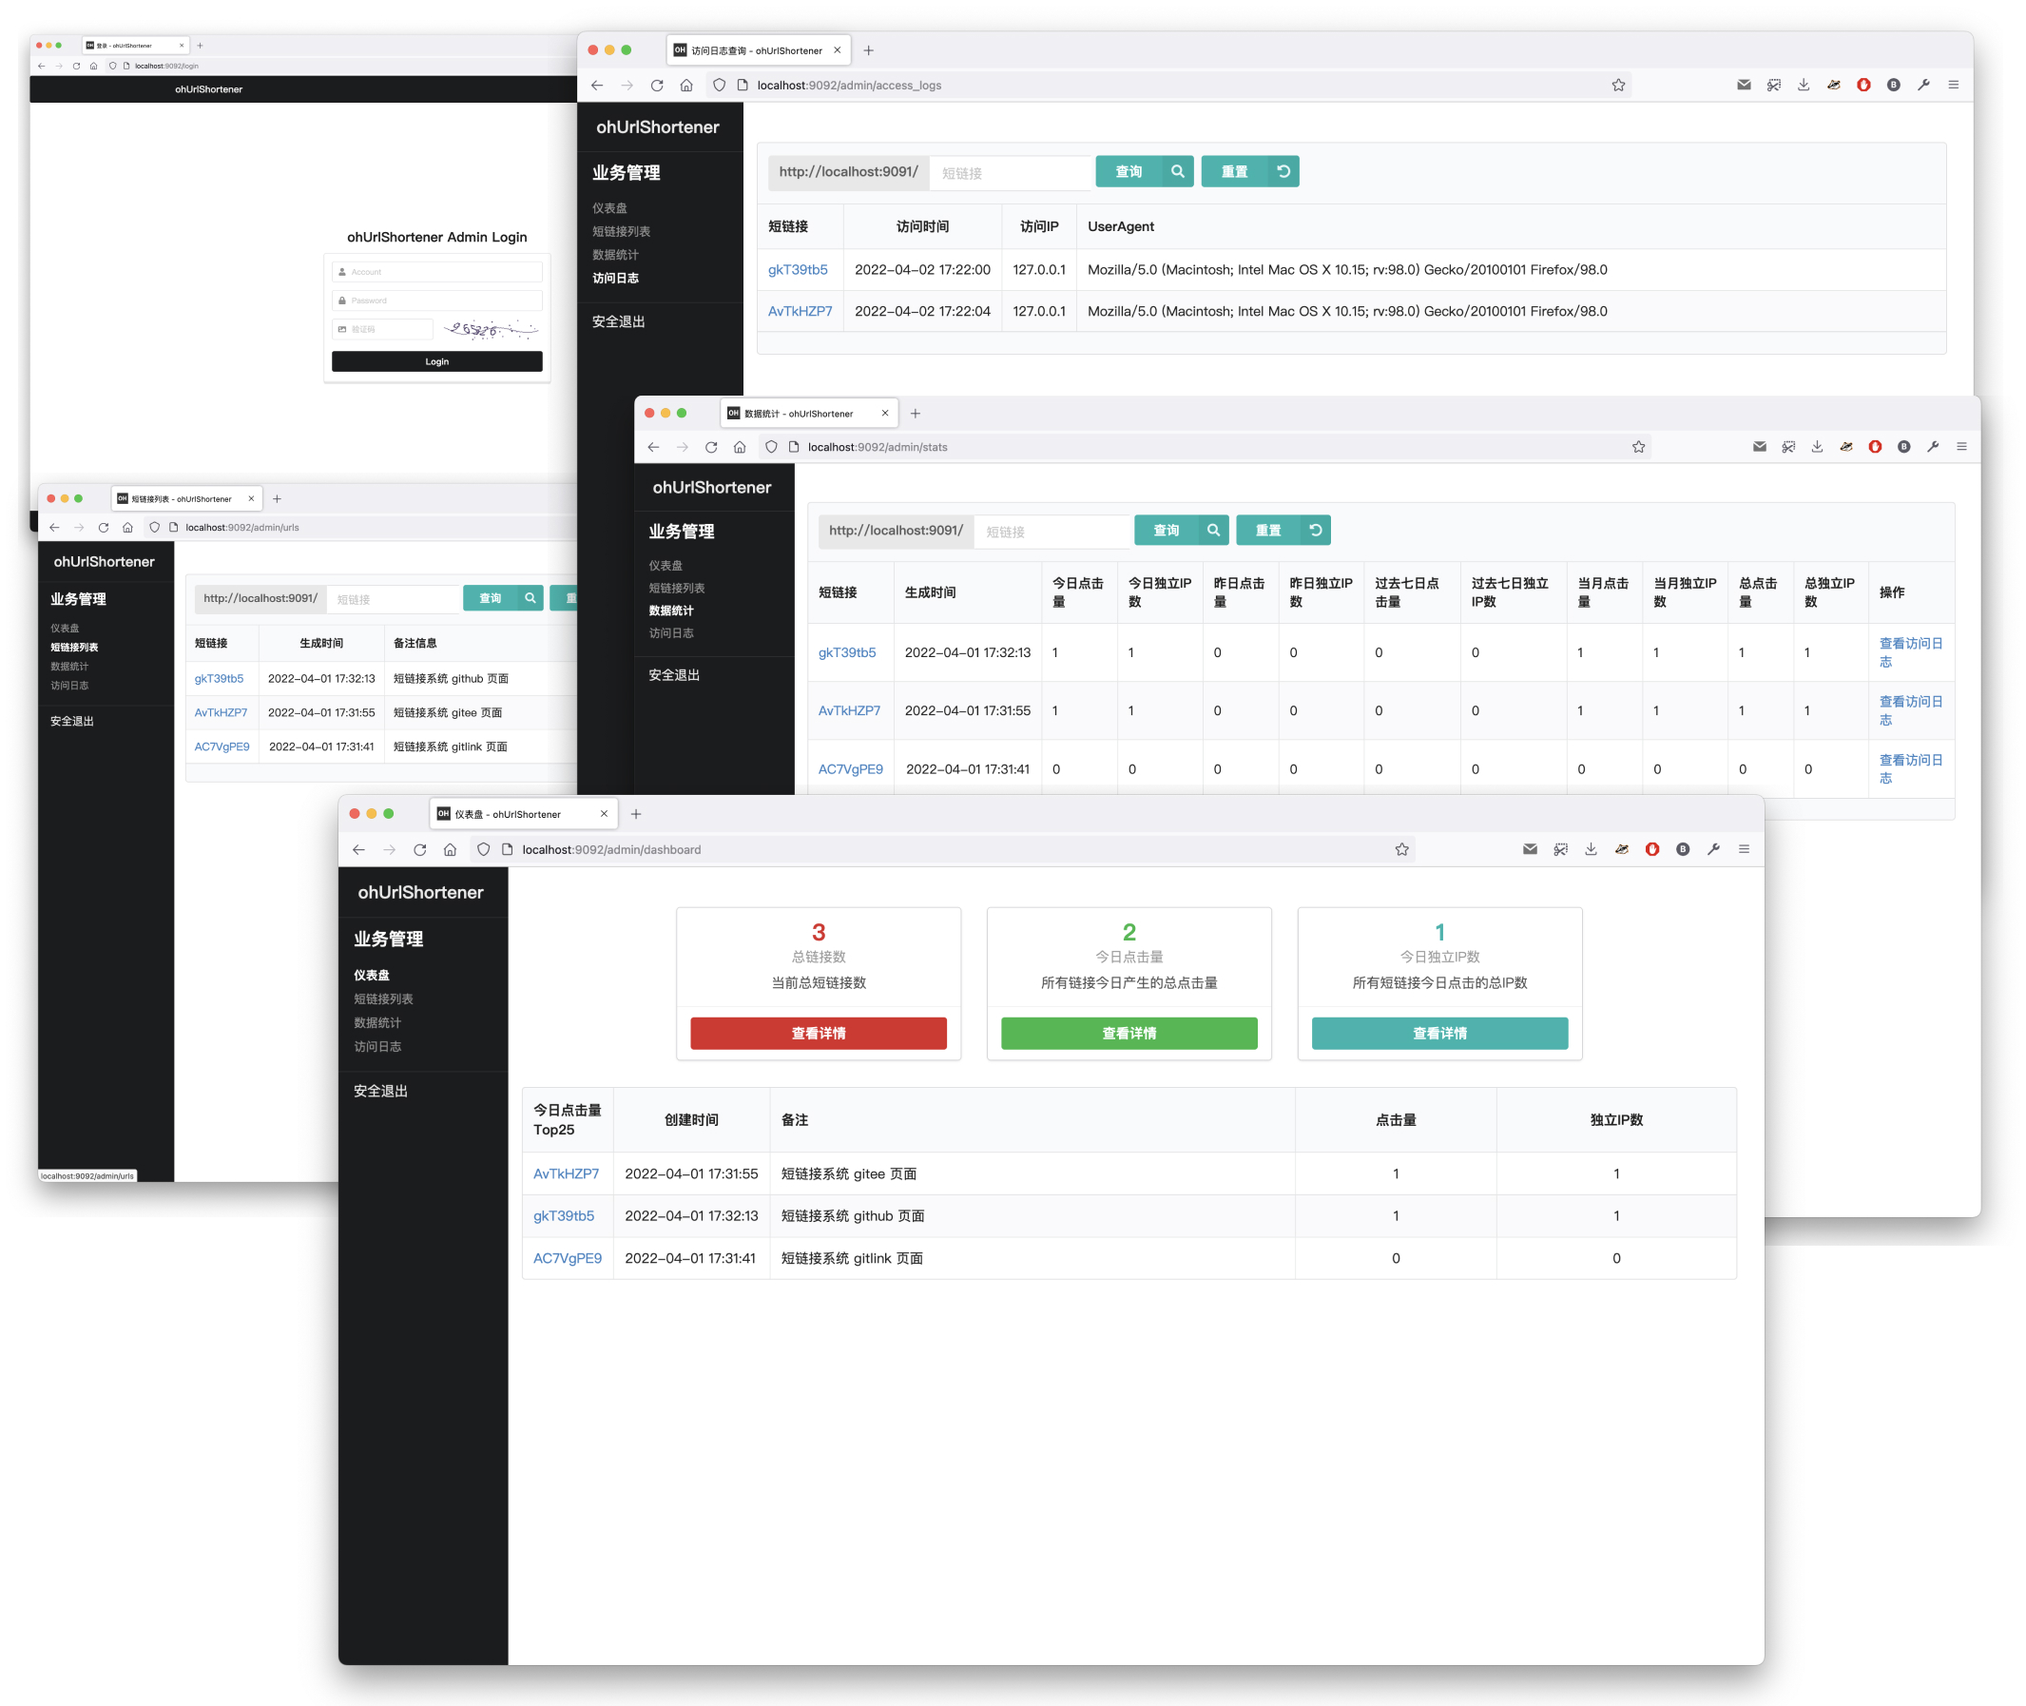
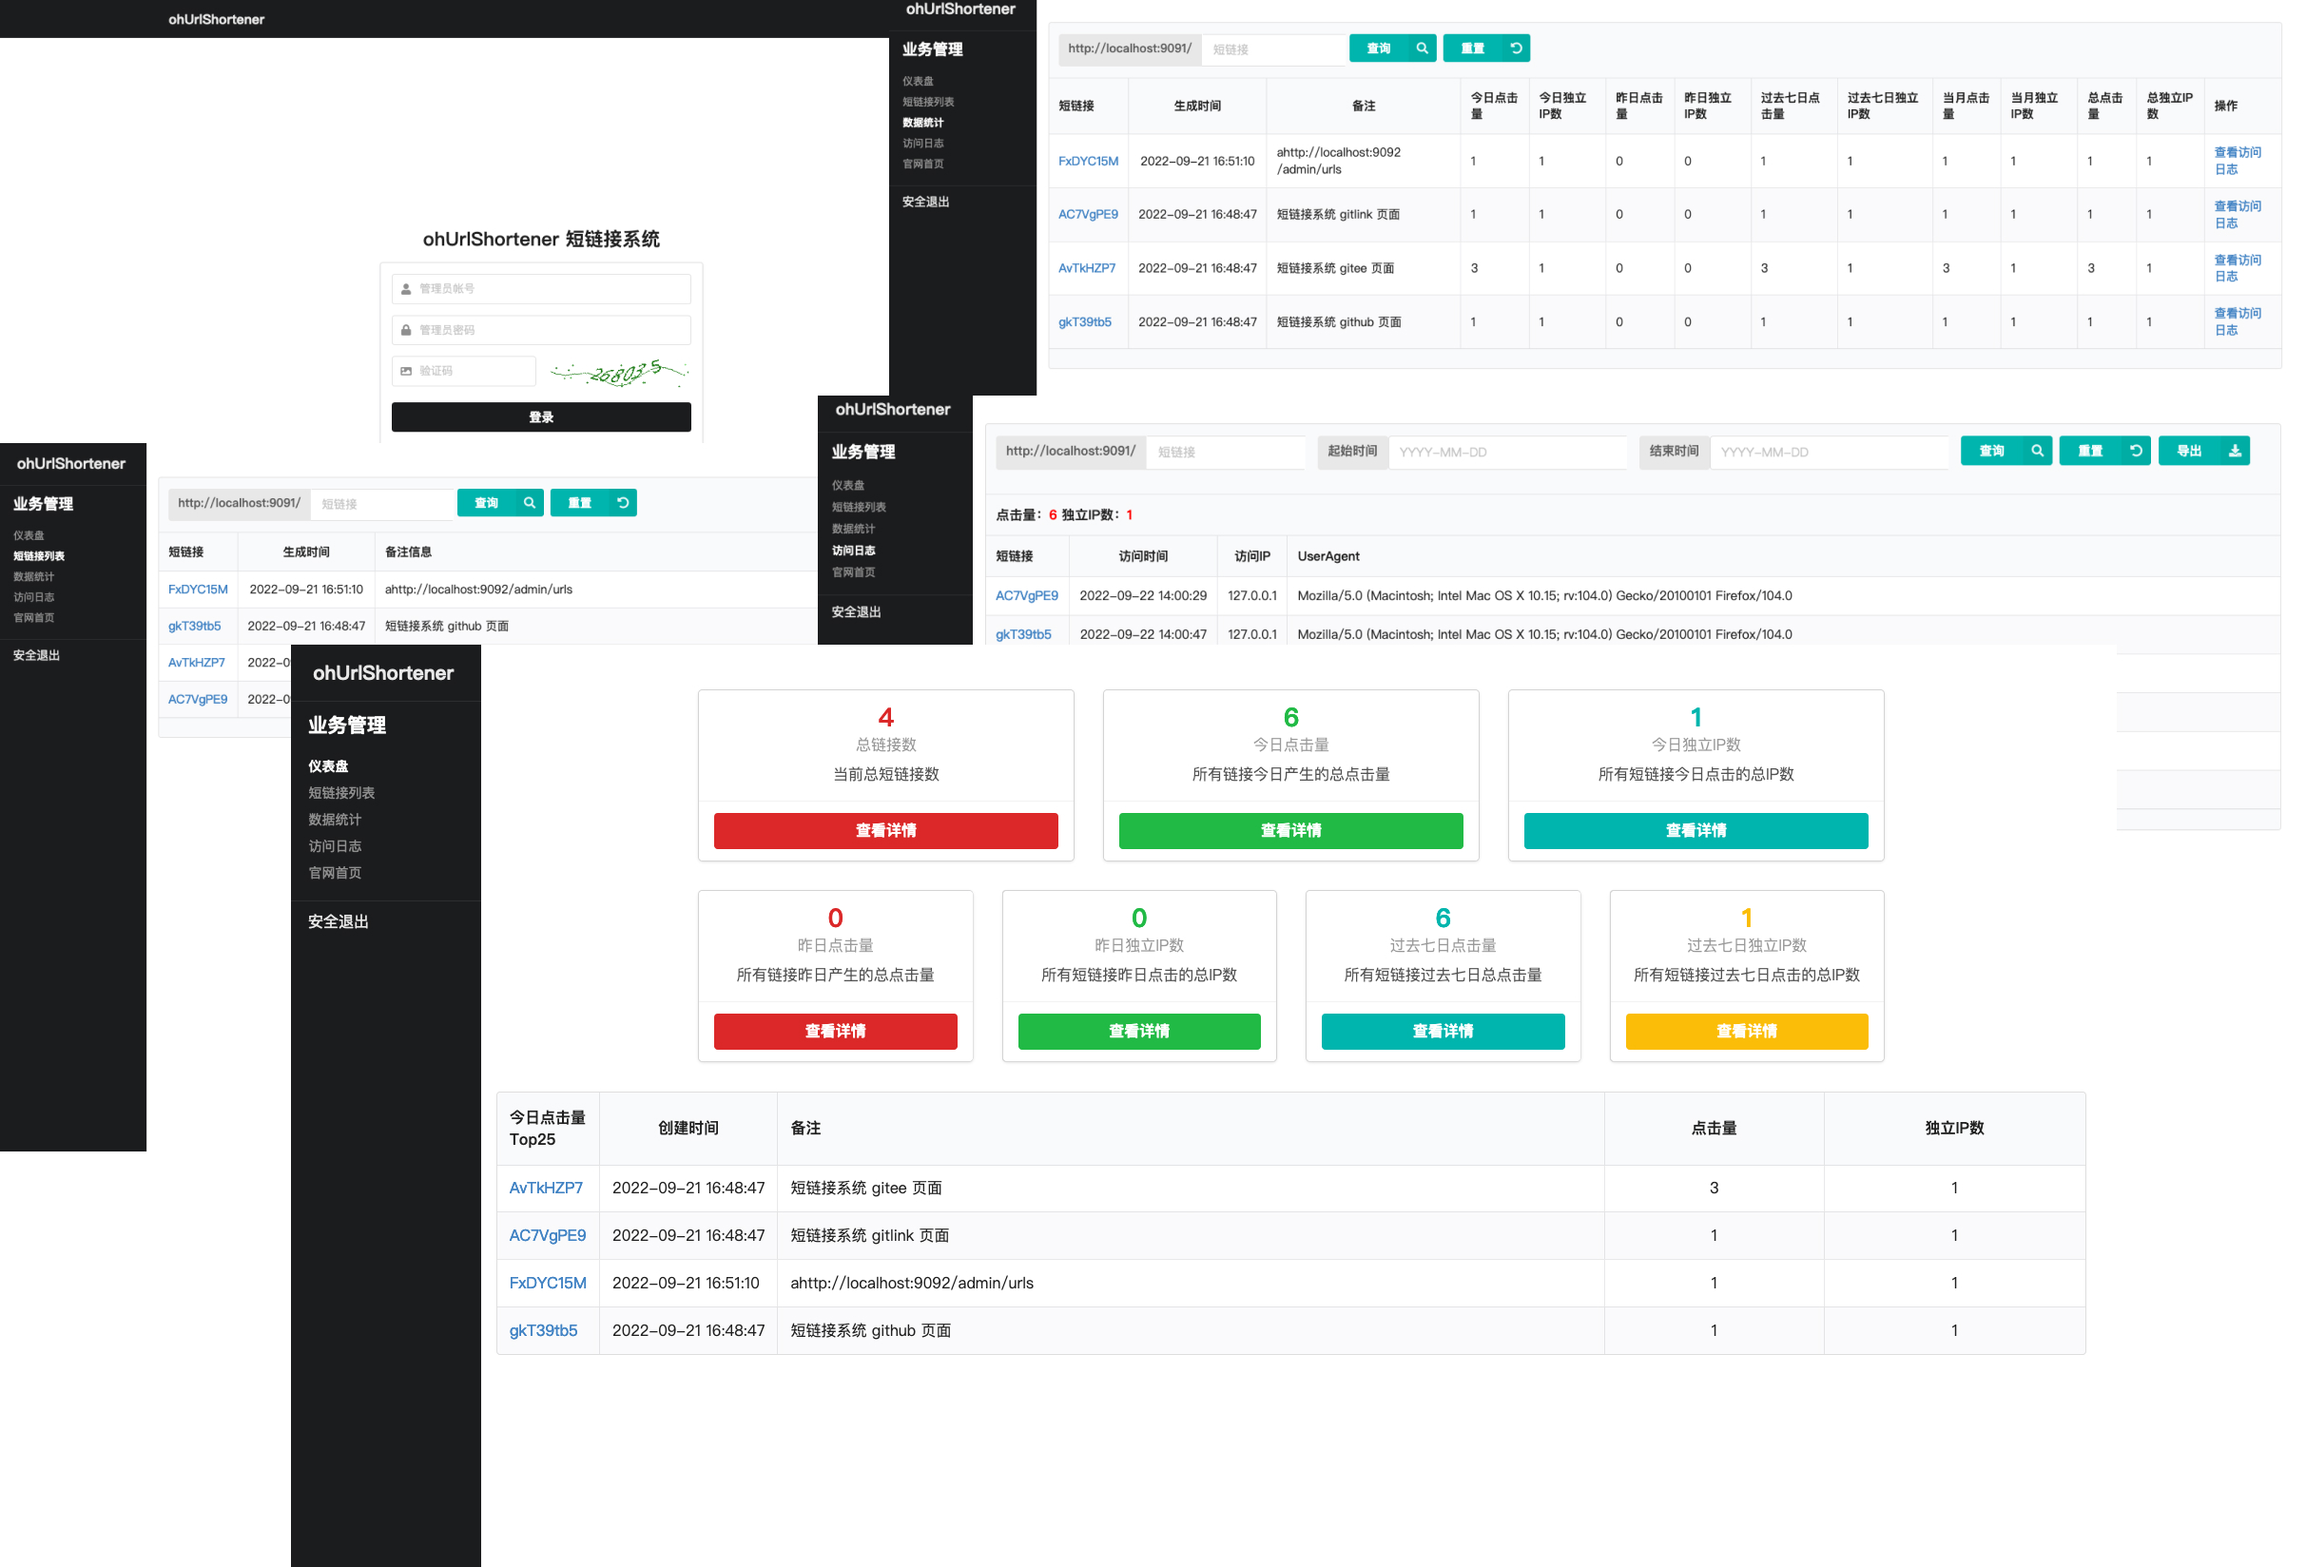
Screenshots & UTM_SOURCE update (#13)
* utm_source settings

1. UTM_SOURCE for all links in production
2. Toast for CopyUrl to clipboard.

* Screenshots update

diff --git a/templates/admin/login.html b/templates/admin/login.html
@@ -2,7 +2,7 @@
 {{- template "header.html" .}}
 <div class="ui inverted borderless large menu">
   <div class="ui container">
-    <a class="ui inverted header item" target="_self" href="https://gitee.com/barat/ohurlshortener">          
+    <a class="ui inverted header item" target="_blank" href="https://www.ohurls.cn?utm_source=product&utm_medium=header">          
         <div class="content">ohUrlShortener</div>           
     </a>                 
   </div>
@@ -11,7 +11,7 @@
   <div class="column">
     <h2 class="ui image header">      
       <div class="content">
-        ohUrlShortener Admin Login
+        ohUrlShortener 短链接系统
       </div>
     </h2>
     <form id="login-form" class="ui large form" action="/login" method="post">
@@ -19,13 +19,13 @@
         <div class="field">
           <div class="ui left icon input">
             <i class="user icon"></i>
-            <input type="text" name="account" placeholder="Account">
+            <input type="text" name="account" placeholder="管理员帐号">
           </div>
         </div>
         <div class="field">
           <div class="ui left icon input">
             <i class="lock icon"></i>
-            <input type="password" name="password" placeholder="Password">
+            <input type="password" name="password" placeholder="管理员密码">
           </div>
         </div>
         <div class="field">
@@ -39,7 +39,7 @@
             <div id="captcha-image" class="field"><a class="ui input" href="javascript:reload_captcha()">点击获取验证码</a></div>
           </div>  
         </div>     
-        <div class="ui fluid large black submit button">Login</div>
+        <div class="ui fluid large black submit button">登录</div>
       </div>  
       <div class="ui error message"></div>
     </form>

diff --git a/templates/admin/menu.html b/templates/admin/menu.html
@@ -7,6 +7,7 @@
       <a class="{{if eq .current_url "/admin/urls"}}active {{end}}item" target="_self" href="/admin/urls">短链接列表</a>
       <a class="{{if eq .current_url "/admin/stats"}}active {{end}}item" target="_self" href="/admin/stats">数据统计</a>
       <a class="{{if eq .current_url "/admin/access_logs"}}active {{end}}item" target="_self"  href="/admin/access_logs">访问日志</a> 
+      <a class="item" target="_blank"  href="https://www.ohurls.cn?utm_source=product&utm_medium=menu">官网首页</a>       
     </div>    
   </div>   
   <a class="item" href="javascript:sign_out_config()" target="_self">安全退出</a>
@@ -29,6 +30,7 @@
       <a class="{{if eq .current_url "/admin/urls"}}active {{end}}item" target="_self" href="/admin/urls">短链接列表</a>
       <a class="{{if eq .current_url "/admin/stats"}}active {{end}}item" target="_self" href="/admin/stats">数据统计</a>
       <a class="{{if eq .current_url "/admin/access_logs"}}active {{end}}item" target="_self"  href="/admin/access_logs">访问日志</a> 
+      <a class="item" target="_blank"  href="https://www.ohurls.cn?utm_source=product&utm_medium=menu">官网首页</a>             
     </div>    
   </div>      
   <a class="item" target="_self" href="javascript:sign_out_config()">安全退出</a>

diff --git a/templates/footer.html b/templates/footer.html
@@ -2,8 +2,7 @@
 <div class="ui inverted vertical bottom attached footer segment" style="max-height: 60px; width: 100%;">
   <div class="ui center aligned container">
     <p>Copyright <i class="copyright outline icon"></i>{{now | date "2006" }} 巴拉迪维 版权所有 
-      <a href="https://gitee.com/barat/ohurlshortener" target="_blank">Gitee</a>
-      <a href="https://github.com/barats/ohurlshortener" target="_blank">Github</a>
+      <a href="https://www.ohurls.cn?utm_source=product&utm_medium=footer" target="_blank">ohUrlShortener</a>      
     </p>
   </div><!--end of container-->
 </div><!--end of footer segment-->

diff --git a/templates/admin/footer.html b/templates/admin/footer.html
@@ -2,8 +2,7 @@
 <div class="ui inverted vertical bottom attached footer segment" style="max-height: 60px; width: 100%;">
   <div class="ui center aligned container">
     <p>Copyright <i class="copyright outline icon"></i>{{now | date "2006" }} 巴拉迪维 版权所有 
-      <a href="https://gitee.com/barat/ohurlshortener" target="_blank">Gitee</a>
-      <a href="https://github.com/barats/ohurlshortener" target="_blank">Github</a>
+      <a href="https://www.ohurls.cn?utm_source=product&utm_medium=footer" target="_blank">ohUrlShortener</a>
     </p>
   </div><!--end of container-->
 </div><!--end of footer segment-->

diff --git a/templates/admin/error.html b/templates/admin/error.html
@@ -2,7 +2,7 @@
 {{- template "header.html" .}}
 <div class="ui inverted borderless large menu">
   <div class="ui container">
-    <a class="ui inverted header item" target="_self" href="https://gitee.com/barat/ohurlshortener">          
+    <a class="ui inverted header item" target="_blank" href="https://www.ohurls.cn?utm_source=product&utm_medium=header">          
         <div class="content">ohUrlShortener</div>           
     </a>                 
   </div>

diff --git a/templates/error.html b/templates/error.html
@@ -2,7 +2,7 @@
 {{template "header.html" .}}
 <div class="ui inverted borderless large menu">
   <div class="ui container">
-    <a class="ui inverted header item" target="_self" href="https://gitee.com/barat/ohurlshortener">          
+    <a class="ui inverted header item" target="_blank" href="https://www.ohurls.cn?utm_source=product&utm_medium=header">          
         <div class="content">ohUrlShortener</div>           
     </a>                 
   </div>

diff --git a/assets/admin.js b/assets/admin.js
@@ -186,8 +186,15 @@ function delete_url(url) {
   });
 }
 
-function copy_url(url){
+function copy_url(url){  
   navigator.clipboard.writeText(url);
+  $('body').toast({
+    class: 'success',
+    displayTime: 2500,
+    message: '复制成功',    
+    showIcon:'exclamation circle',
+    showProgress: 'bottom'
+  });
 }
 
 function reload_captcha() {

diff --git a/README.md b/README.md
@@ -1,6 +1,6 @@
 # ohUrlShortener
 
- 适合中小型社区网站使用的短链接服务系统，支持短链接生产、查询及302转向，并自带点击量统计、独立IP数统计、访问日志查询：
+ 适合中小型社区网站使用的企业级短链接服务系统，支持短链接生产、查询及302转向，并自带点击量统计、独立IP数统计、访问日志查询：
 
 1. 支持 Docker One Step Start 部署启动
 1. 支持短链接生产、查询、存储、302转向
